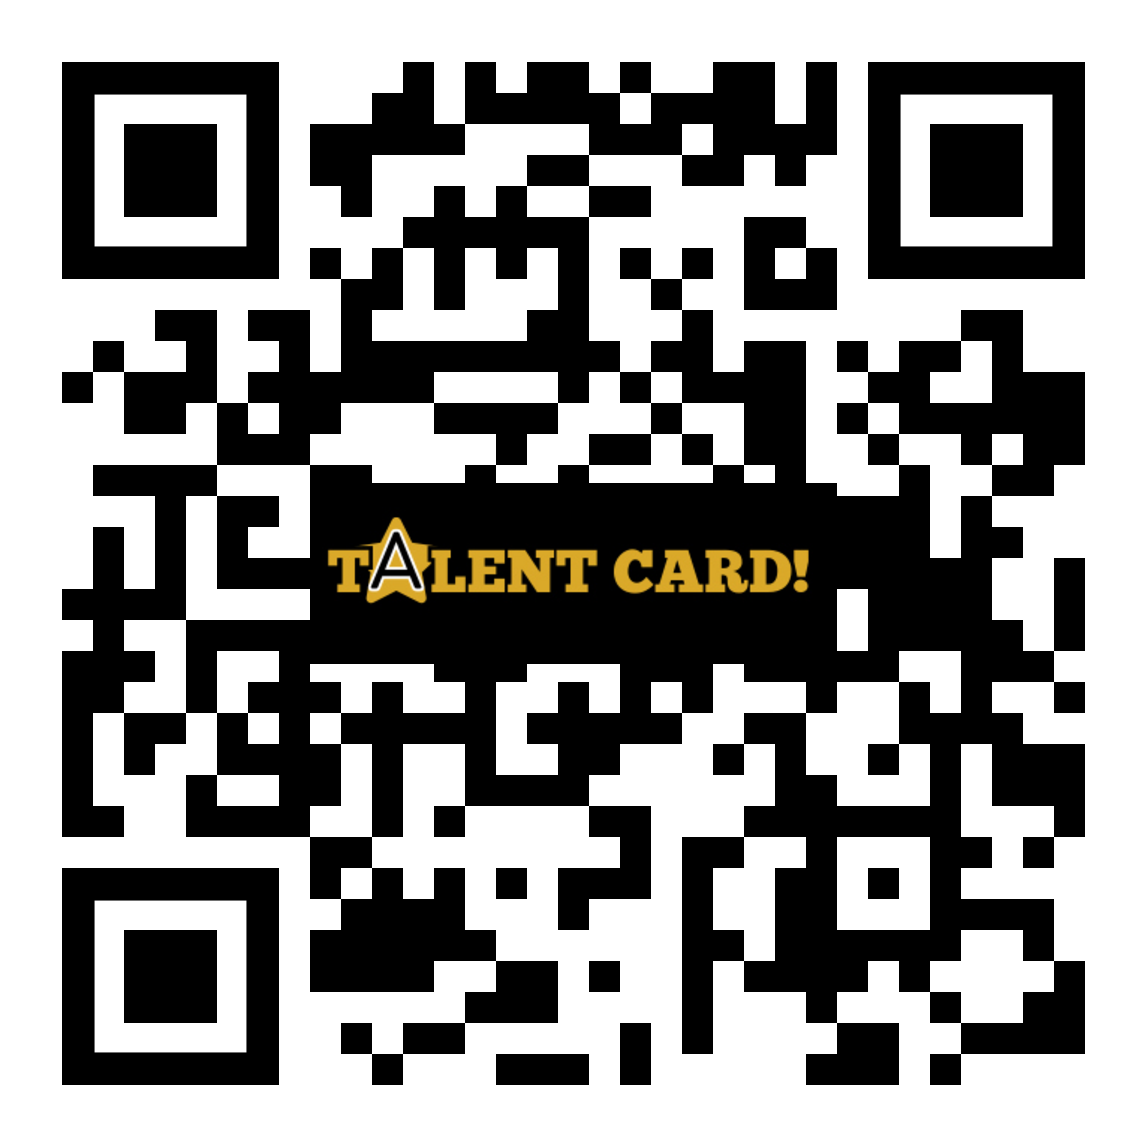
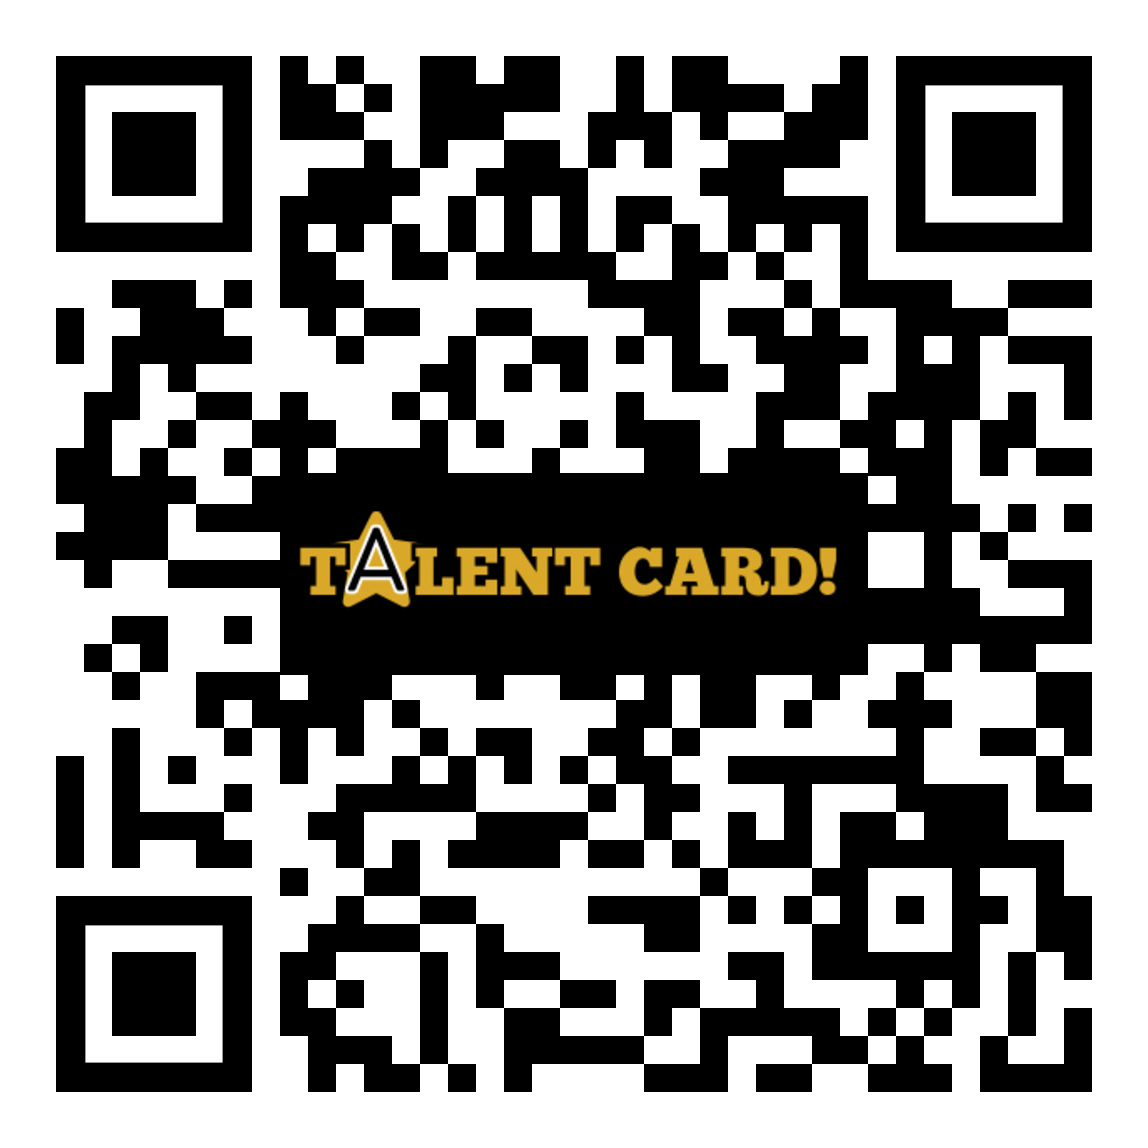
Add files via upload

diff --git a/index.html b/index.html
@@ -6,13 +6,13 @@
     
     <!-- Configuración Avanzada Open Graph (OG Share) - Conecta Card Oficial -->
     <meta property="og:type" content="website" />
-    <meta property="og:url" content="https://cesar-vega.pideya.contact/" />
+    <meta property="og:url" content="https://marco-talent.pideya.contact/" />
     <meta property="og:title" content="Markiito Valdes" />
     <meta property="og:description" content="Descubre la trayectoria, disciplina y grandeza de Markiito Valdes, Percucionista Internacional y orgullo de México. Explora su CONECTA CARD oficial." />
     
     <!-- Infraestructura Multimedia Premium de Imagen de Portada -->
-    <meta property="og:image" content="https://cesar-vega.pideya.contact/cvega_og.jpg" />
-    <meta property="og:image:secure_url" content="https://cesar-vega.pideya.contact/cvega_og.jpg" />
+    <meta property="og:image" content="https://marco-talent.pideya.contact/og_marco.jpg" />
+    <meta property="og:image:secure_url" content="https://marco-talent.pideya.contact/og_marco.jpg" />
     <meta property="og:image:type" content="image/jpeg" />
     <meta property="og:image:width" content="1200" />
     <meta property="og:image:height" content="630" />
